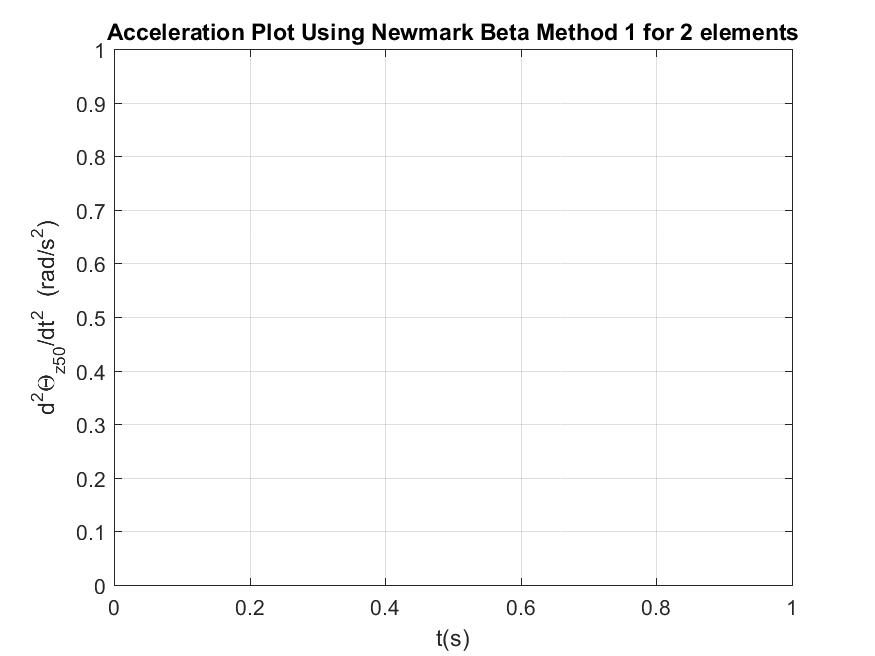
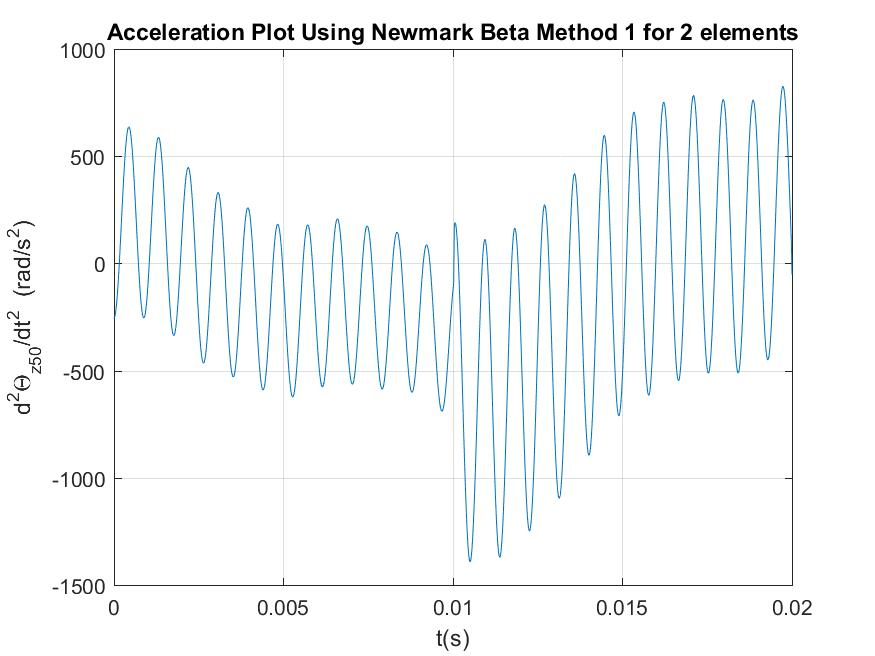
Revert "uploaded files"
This reverts commit 98a3b8fc35d8ab3d55b14c1e3e7c0c1766c01382.

diff --git a/Newmark_Method.m b/Newmark_Method.m
@@ -3,9 +3,12 @@ close all
 clear all
 clc
 
+global Kr
+global Mr
+global Fr
 global K
 global M
-global F
+global R
 global nodes
 
 run wfem
@@ -14,28 +17,13 @@ run wfem
 numofelem = size(nodes,1)-1;
 dof = (size(nodes,1)*6)-9;
 %% Pull Force Vector & Stiffness and Mass Matricies from wfem 
-
-K = full(K);
-M = full(M);
-R = full(F);
-
-Kr = K(1:size(nodes,1)*6,1:size(nodes,1)*6);
-Mr = M(1:size(nodes,1)*6,1:size(nodes,1)*6);
-Rr = R(1:size(nodes,1)*6);
-
-bcs = [1 2 152];
-K(stripdof,:) = [];
-K(:,stripdof) = [];
-K(bcs,:) = [];
-K(:,bcs) = [];
-M(stripdof,:) = [];
-M(:,stripdof) = [];
-M(bcs,:) = [];
-M(:,bcs) = [];
+K = full(Kr);
+M = full(Mr);
+R = full(Fr);
 
 %% Select an appropriate dt, gamma and beta
-t = 0.15;
-dt = .0001; %Delta t in seconds
+t = 0.02;
+dt = .00002; %Delta t in seconds
 teff = .01;
 
 Gamma = [1/2 1/2 1/2];
@@ -45,7 +33,7 @@ Beta = [1/4 1/6 1/12];
     Zeta = .02; %Damping Ratio
 
     %Determine Mode Shapes and Eigenvalues
-    [mode, lam ]= eig(Kr);
+    [mode, lam ]= eig(K);
     w = sqrt(lam);
 
     lam_mat = 2*Zeta*w;
